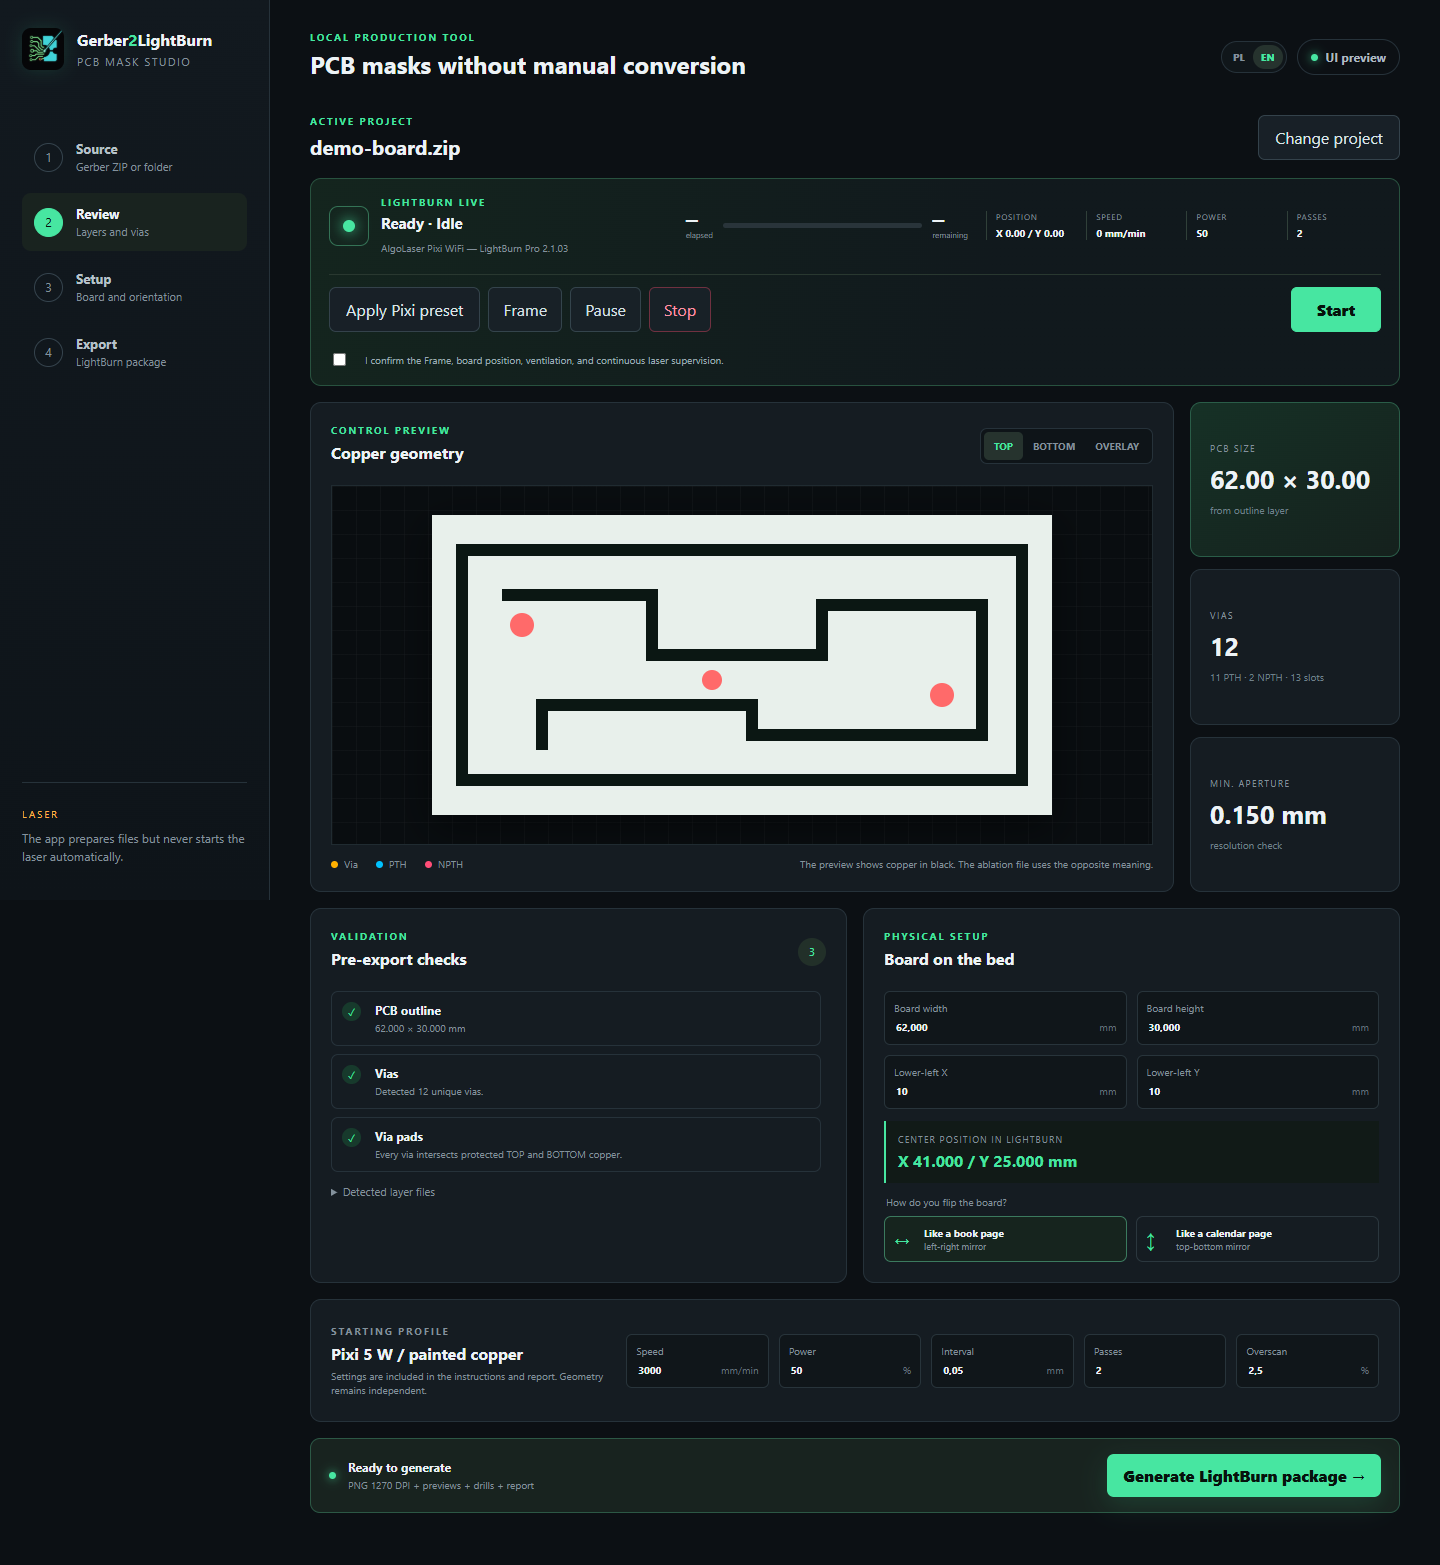
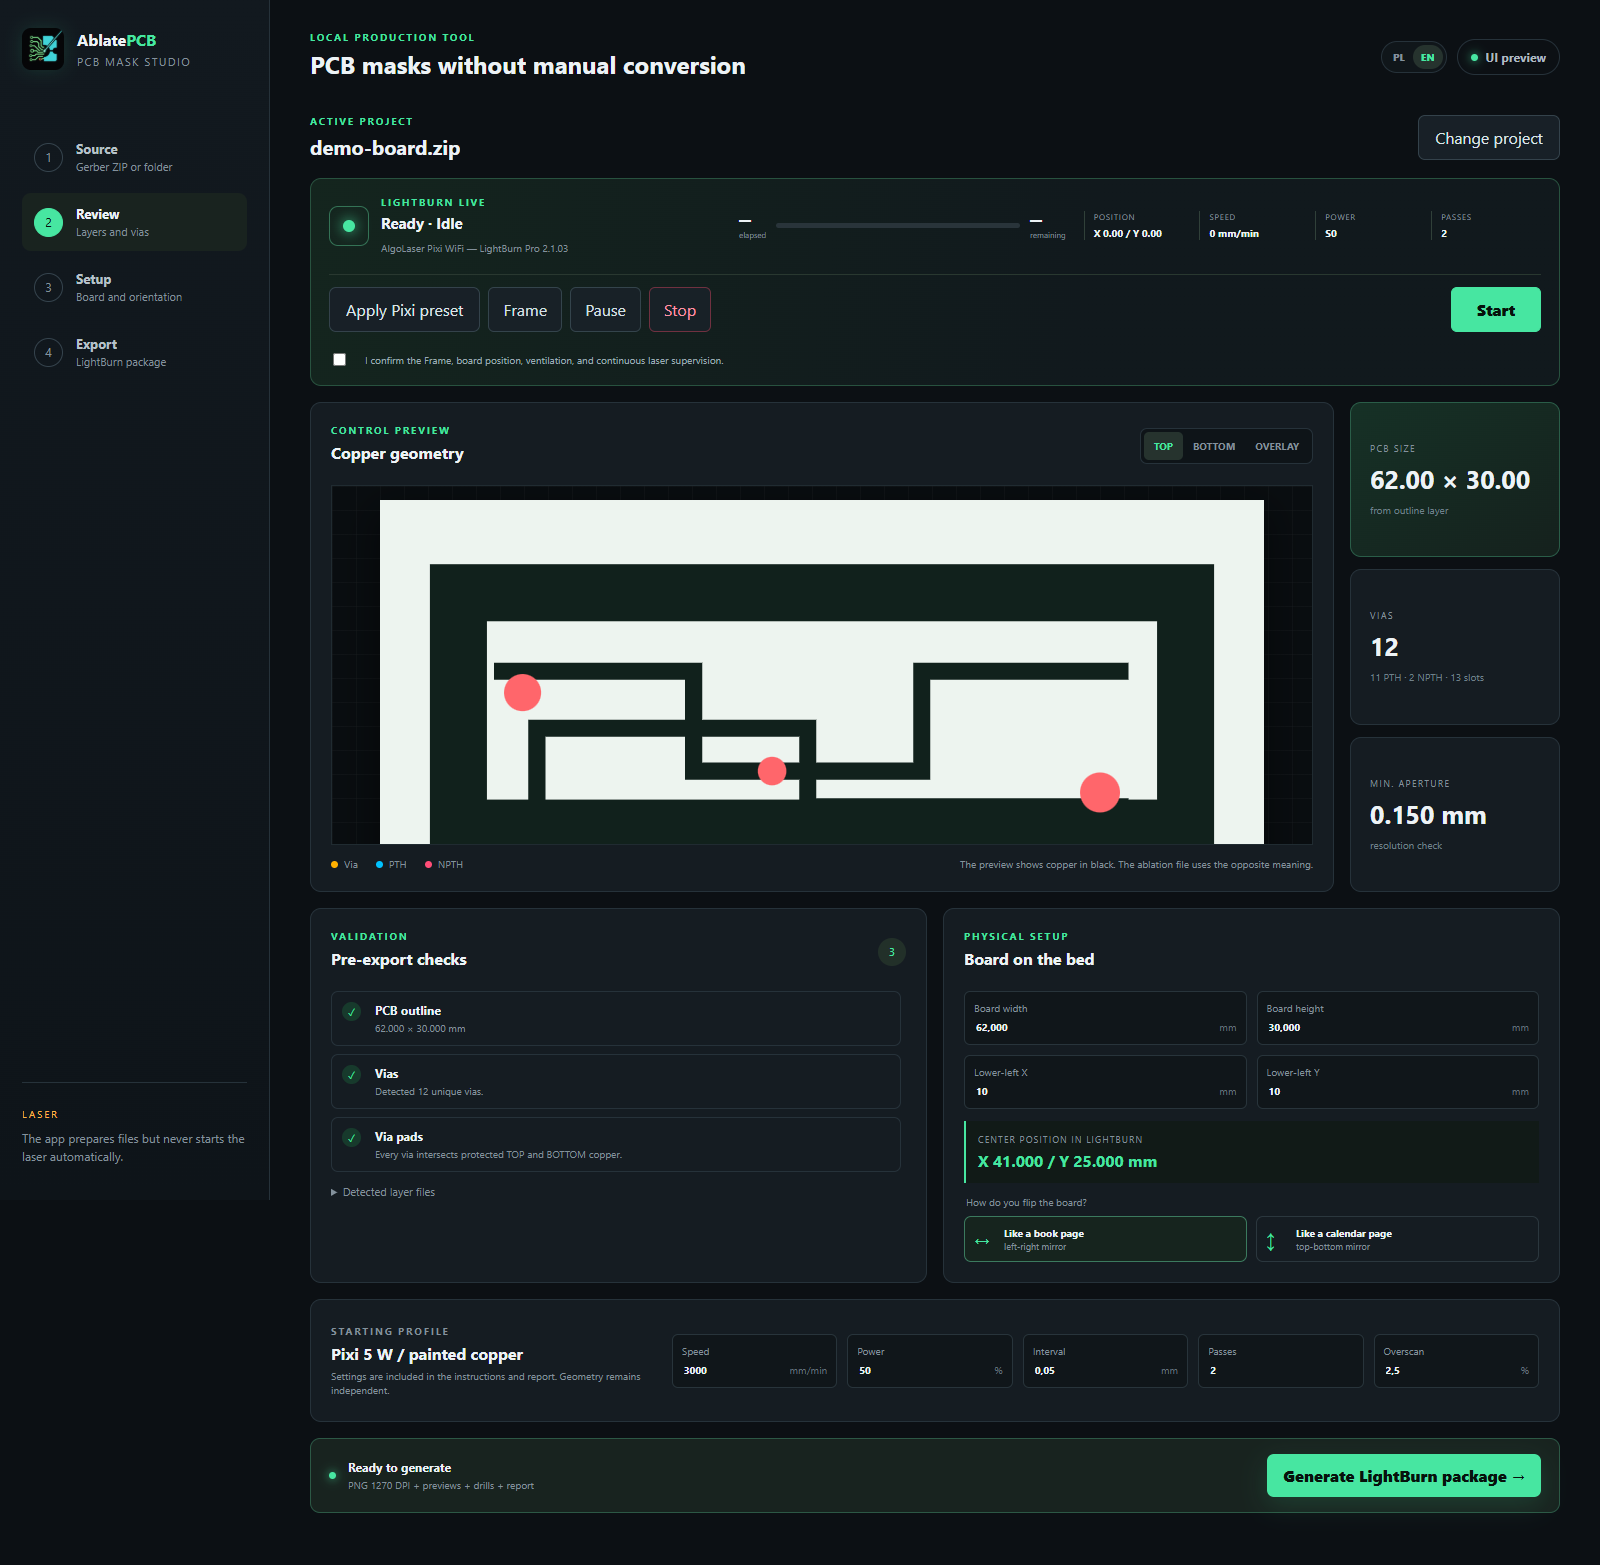
Rename project to AblatePCB Studio

diff --git a/ablatepcb/__init__.py b/ablatepcb/__init__.py
@@ -1,0 +1,3 @@
+"""AblatePCB Studio application."""
+
+__version__ = "0.1.0"

diff --git a/app.py b/app.py
@@ -1,6 +1,5 @@
-from gerber2lightburn.gui import main
+from ablatepcb.gui import main
 
 
 if __name__ == "__main__":
     raise SystemExit(main())
-

diff --git a/tests/test_detect.py b/tests/test_detect.py
@@ -1,6 +1,6 @@
 from pathlib import Path
 
-from gerber2lightburn.detect import classify, coordinate_bounds
+from ablatepcb.detect import classify, coordinate_bounds
 
 
 OUTLINE = """%FSLAX45Y45*%
@@ -36,4 +36,3 @@ def test_common_layer_names_are_classified(tmp_path: Path) -> None:
         path = tmp_path / filename
         path.write_text("M48\n" if path.suffix.lower() == ".drl" else "%MOMM*%\n", encoding="utf-8")
         assert classify(path, tmp_path).kind == kind
-

diff --git a/tests/test_excellon.py b/tests/test_excellon.py
@@ -1,6 +1,6 @@
 from pathlib import Path
 
-from gerber2lightburn.excellon import merge_drills, parse_excellon
+from ablatepcb.excellon import merge_drills, parse_excellon
 
 
 def test_excellon_points_slots_and_via_priority(tmp_path: Path) -> None:
@@ -22,4 +22,3 @@ def test_excellon_points_slots_and_via_priority(tmp_path: Path) -> None:
     assert hits[0].x == 10.0 and hits[0].y == 20.0
     assert len(slots) == 1
     assert slots[0].x2 == 13.0
-

diff --git a/tests/test_usb_switch_golden.py b/tests/test_usb_switch_golden.py
@@ -5,7 +5,7 @@ import numpy as np
 import pytest
 from PIL import Image
 
-from gerber2lightburn.engine import Converter
+from ablatepcb.engine import Converter
 
 
 ZIP = Path(os.environ.get("GERBER_GOLDEN_ZIP", "__missing_golden_zip__"))

diff --git a/README.md b/README.md
@@ -1,15 +1,15 @@
 <p align="center">
-  <img src="docs/assets/logo.png" width="180" alt="Gerber2LightBurn PCB logo">
+  <img src="docs/assets/logo.png" width="180" alt="AblatePCB Studio logo">
 </p>
 
-<h1 align="center">Gerber2LightBurn PCB</h1>
+<h1 align="center">AblatePCB Studio</h1>
 
 <p align="center">
-  A local-first Windows desktop studio for turning Gerber/Excellon fabrication packages into validated PCB paint-ablation masks and operating LightBurn safely.
+  A local-first Windows desktop studio for turning Gerber/Excellon fabrication packages into validated PCB paint-ablation masks, with an independent LightBurn integration.
 </p>
 
 <p align="center">
-  <a href="https://github.com/mateuszsury/gerber2lightburn-pcb/actions/workflows/ci.yml"><img src="https://github.com/mateuszsury/gerber2lightburn-pcb/actions/workflows/ci.yml/badge.svg" alt="CI"></a>
+  <a href="https://github.com/mateuszsury/ablatepcb-studio/actions/workflows/ci.yml"><img src="https://github.com/mateuszsury/ablatepcb-studio/actions/workflows/ci.yml/badge.svg" alt="CI"></a>
   <a href="LICENSE"><img src="https://img.shields.io/badge/license-MIT-47e6a1" alt="MIT License"></a>
   <img src="https://img.shields.io/badge/platform-Windows-36b9ff" alt="Windows">
   <img src="https://img.shields.io/badge/Python-3.11%2B-3776AB" alt="Python 3.11+">
@@ -21,7 +21,7 @@
 
 ## Why this exists
 
-Gerber2LightBurn PCB removes the fragile manual steps between an EDA fabrication export and a two-sided laser-resistant PCB mask. It detects the board outline, copper layers, Excellon drills, vias, plated/non-plated holes, and slots; validates their geometry; then generates deterministic 1270 DPI ablation images for LightBurn.
+AblatePCB Studio removes the fragile manual steps between an EDA fabrication export and a two-sided laser-resistant PCB mask. It detects the board outline, copper layers, Excellon drills, vias, plated/non-plated holes, and slots; validates their geometry; then generates deterministic 1270 DPI ablation images that can be loaded into LightBurn.
 
 The converter is vendor-neutral. EasyEDA, KiCad, Altium, standard RS-274X Gerber, and Excellon naming conventions are recognized. The included **AlgoLaser Pixi 5 W** profile is a starting preset, not a device lock-in.
 
@@ -55,8 +55,8 @@ The Start action requires both a safety checkbox and a second confirmation. Impo
 ### Run from source
 
 ```powershell
-git clone https://github.com/mateuszsury/gerber2lightburn-pcb.git
-cd gerber2lightburn-pcb
+git clone https://github.com/mateuszsury/ablatepcb-studio.git
+cd ablatepcb-studio
 py -3 -m venv .venv
 .\.venv\Scripts\Activate.ps1
 python -m pip install -e ".[dev]"
@@ -69,13 +69,13 @@ python app.py
 .\build_windows.ps1
 ```
 
-The unpacked application is written to `dist\Gerber2LightBurnPCB`. Build artifacts are intentionally excluded from Git.
+The unpacked application is written to `dist\AblatePCBStudio`. Build artifacts are intentionally excluded from Git.
 
 ## Command-line conversion
 
 ```powershell
-gerber2lightburn analyze "C:\fabrication\board.zip"
-gerber2lightburn generate "C:\fabrication\board.zip" `
+ablatepcb analyze "C:\fabrication\board.zip"
+ablatepcb generate "C:\fabrication\board.zip" `
   --blank 70 50 --origin 10 10 --flip left_right
 ```
 
@@ -98,12 +98,14 @@ In ablation masks, white means copper that remains protected by paint; black mea
 
 File loading, liveness checks, and Start use LightBurn's documented localhost UDP automation interface. Detailed status, ETA, active-layer values, Frame, Pause, and Stop are read or invoked through Windows UI Automation. `FORCELOAD` is deliberately not used, so unsaved LightBurn work is never discarded without its own prompt.
 
+The integration has been tested with **LightBurn 2.1.03 on Windows**. This is a compatibility statement, not a claim of official certification or endorsement. Because LightBurn UI identifiers can change between versions, AblatePCB Studio fails visibly when it cannot identify a control instead of guessing.
+
 See [docs/lightburn-integration.md](docs/lightburn-integration.md) for the exact safety boundary and compatibility notes.
 
 ## Verification
 
 ```powershell
-python -m compileall -q app.py gerber2lightburn tests
+python -m compileall -q app.py ablatepcb tests
 python -m pytest
 ```
 
@@ -129,5 +131,4 @@ The portable test suite covers detection and Excellon parsing. An optional golde
 
 Released under the [MIT License](LICENSE).
 
-This project is independent and is not affiliated with, endorsed by, or sponsored by LightBurn Software, AlgoLaser, EasyEDA, KiCad, or Altium. Product names are used only to describe compatibility.
-
+This project is independent and is not affiliated with, endorsed by, or sponsored by LightBurn Software, AlgoLaser, EasyEDA, KiCad, or Altium. LightBurn and the other product names and marks belong to their respective owners and are used only to identify compatible products and intended interoperability. **AblatePCB Studio** is the name of this project; LightBurn is not part of its name or branding.

diff --git a/docs/README.pl.md b/docs/README.pl.md
@@ -1,8 +1,10 @@
-# Gerber2LightBurn PCB
+# AblatePCB Studio
 
 [English README](../README.md)
 
-Gerber2LightBurn PCB to lokalna aplikacja Windows, która zamienia paczki produkcyjne Gerber/Excellon na zweryfikowane maski ablacji farby dla jednostronnych i dwustronnych płytek PCB, a następnie bezpiecznie współpracuje z LightBurn.
+AblatePCB Studio to lokalna aplikacja Windows, która zamienia paczki produkcyjne Gerber/Excellon na zweryfikowane maski ablacji farby dla jednostronnych i dwustronnych płytek PCB oraz zapewnia niezależną integrację z LightBurn.
+
+![Widok aplikacji](assets/workspace-pl.png)
 
 ## Najważniejsze możliwości
 
@@ -19,8 +21,8 @@ Gerber2LightBurn PCB to lokalna aplikacja Windows, która zamienia paczki produk
 ## Szybki start
 
 ```powershell
-git clone https://github.com/mateuszsury/gerber2lightburn-pcb.git
-cd gerber2lightburn-pcb
+git clone https://github.com/mateuszsury/ablatepcb-studio.git
+cd ablatepcb-studio
 py -3 -m venv .venv
 .\.venv\Scripts\Activate.ps1
 python -m pip install -e ".[dev]"
@@ -40,9 +42,10 @@ python app.py
 
 Wczytanie pliku ani zastosowanie presetu nie uruchamia lasera. Start wymaga checkboxa bezpieczeństwa oraz dodatkowego potwierdzenia.
 
+Integrację sprawdzono z **LightBurn 2.1.03 w Windows**. Jest to opis kompatybilności, a nie deklaracja oficjalnej certyfikacji lub poparcia. Jeżeli identyfikatory interfejsu zmienią się w przyszłej wersji LightBurn, aplikacja pokaże błąd zamiast zgadywać kontrolkę.
+
 ## Ograniczenia
 
 Aplikacja nie zastępuje DRC ani kontroli netlisty. Domowe trawienie nie metalizuje otworów, dlatego przelotki trzeba połączyć drutem, nitami lub inną metodą. Parametry lasera są tylko punktem startowym i wymagają kalibracji dla konkretnej farby oraz laminatu.
 
-Projekt jest niezależny od LightBurn Software, AlgoLaser, EasyEDA, KiCad i Altium. Nazwy produktów opisują wyłącznie kompatybilność.
-
+Projekt jest niezależny i nie jest powiązany, zatwierdzony ani sponsorowany przez LightBurn Software, AlgoLaser, EasyEDA, KiCad lub Altium. LightBurn i pozostałe nazwy oraz znaki produktów należą do ich właścicieli i są używane wyłącznie do wskazania kompatybilności oraz przeznaczenia integracji. Nazwą projektu jest **AblatePCB Studio**; LightBurn nie jest częścią jego nazwy ani identyfikacji wizualnej.

diff --git a/CHANGELOG.md b/CHANGELOG.md
@@ -2,6 +2,14 @@
 
 All notable changes are documented here. This project follows [Semantic Versioning](https://semver.org/).
 
+## [0.2.0] - 2026-07-21
+
+### Changed
+
+- Renamed the project to **AblatePCB Studio** so the product name is independent from third-party trademarks.
+- Retained LightBurn compatibility and integration wording only as a descriptive interoperability reference.
+- Renamed the Python package and command-line entry point to `ablatepcb`.
+
 ## [0.1.0] - 2026-07-21
 
 ### Added
@@ -13,4 +21,3 @@ All notable changes are documented here. This project follows [Semantic Versioni
 - Pixi 5 W default profile with configurable universal laser parameters.
 - LightBurn UDP and Windows UI Automation integration with live ETA and safety-gated Start.
 - CLI, test suite, Windows build script, and public project documentation.
-

diff --git a/CONTRIBUTING.md b/CONTRIBUTING.md
@@ -5,11 +5,10 @@ Contributions are welcome. Please keep changes focused, local-first, and safe ar
 1. Fork the repository and create a branch from `main`.
 2. Install development dependencies with `python -m pip install -e ".[dev]"`.
 3. Add or update tests for conversion behavior.
-4. Run `python -m compileall -q app.py gerber2lightburn tests` and `python -m pytest`.
+4. Run `python -m compileall -q app.py ablatepcb tests` and `python -m pytest`.
 5. For UI changes, validate rendered Polish and English views at desktop and narrow widths.
 6. Open a pull request describing the fabrication format, LightBurn version, and verification depth.
 
 Never commit proprietary Gerbers, machine credentials, LightBurn preference backups, or personal filesystem paths. Test fixtures must be redistributable.
 
 Changes to Start, Stop, device movement, or preset application require an explicit safety analysis in the pull request. Tests must not start a physical laser.
-

diff --git a/docs/lightburn-integration.md b/docs/lightburn-integration.md
@@ -1,5 +1,7 @@
 # LightBurn integration
 
+AblatePCB Studio is an independent application, not an official LightBurn product. The integration was tested with LightBurn 2.1.03 on Windows. Compatibility language identifies the intended interoperable product and does not imply affiliation, endorsement, or sponsorship by LightBurn Software.
+
 ## Transport
 
 LightBurn listens for documented automation commands on `127.0.0.1:19840` and returns responses on port `19841`. This app uses `PING`, `STATUS`, `LOADFILE:<path>`, and `START`.
@@ -21,4 +23,3 @@ Start is accepted only when:
 3. the user accepts the second confirmation dialog.
 
 The app does not automatically start after import, generation, file loading, or preset application.
-